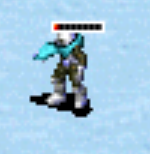
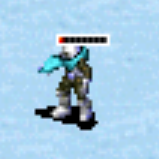
修复了贴图问题,修复了困难版最高分

diff --git a/kudex.html b/kudex.html
@@ -799,7 +799,7 @@
         }
 
         function resbest() {
-            cookie('bast-score', "0", 100);
+            cookie('kubast-score', "0", 100);
             document.getElementById("GameScoreLayer-bast").innerHTML = "最佳&nbsp;&nbsp;0"
         }
 
@@ -831,13 +831,13 @@
 
             document.getElementById('GameScoreLayer-score').innerHTML = '得分&nbsp;&nbsp;' + _gameScore;
 
-            var bast = cookie('bast-score');
+            var bast = cookie('kubast-score');
 
             if (!bast || _gameScore > bast) {
 
                 bast = _gameScore;
 
-                cookie('bast-score', bast, 100);
+                cookie('kubast-score', bast, 100);
             }
 
             document.getElementById('GameScoreLayer-bast').innerHTML = '最佳&nbsp;&nbsp;' + bast;
